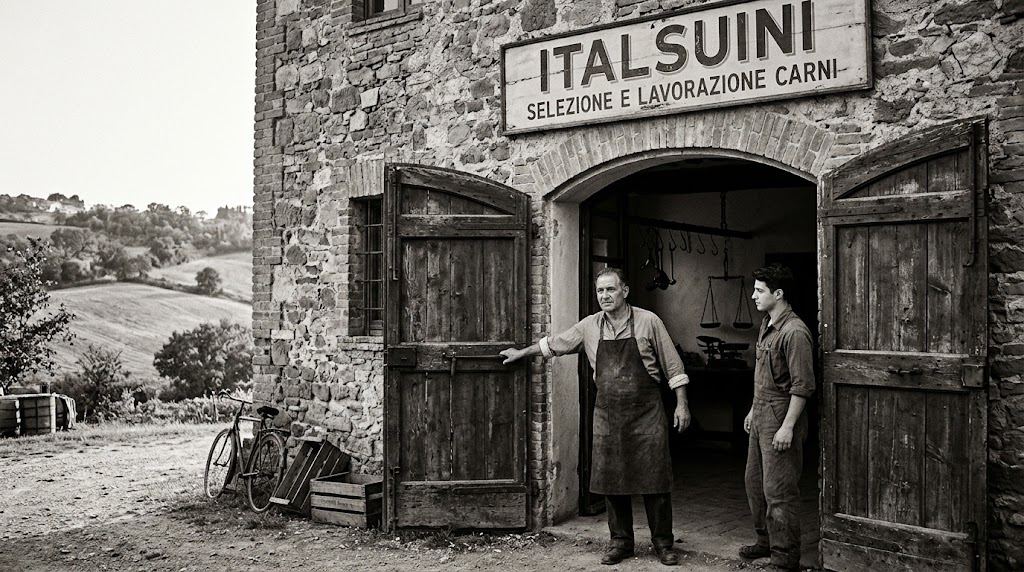
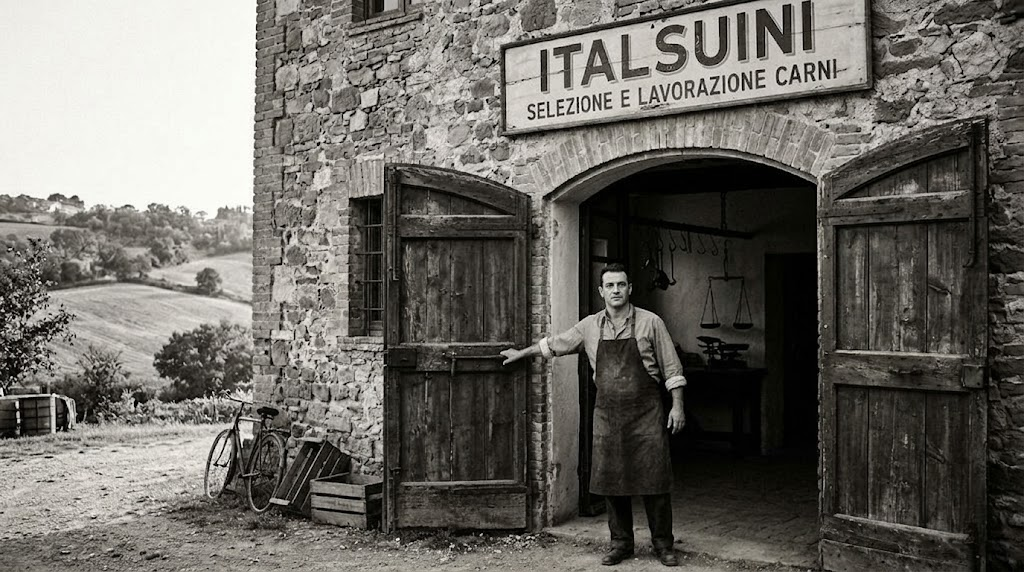
general fix

diff --git a/src/app_guangiale_cesare/shared/constants/date.ts b/src/app_guangiale_cesare/shared/constants/date.ts
@@ -4,30 +4,30 @@ import { TimelineEvent } from '../models/time-line-event';
 export const TIMELINE_EVENTS: TimelineEvent[] = [
   {
     year: '1999',
-    badge: 'Il Primo Passo',
-    title: 'Le Radici di Italsuini',
-    desc: 'Tutto nasce da un sogno e da un profondo rispetto per la nostra terra. Quando le porte di Italsuini si aprono per la prima volta, non stiamo solo fondando un\'azienda: stiamo facendo una promessa. Quella di selezionare le carni più nobili con la stessa cura, etica e dedizione di una volta.',
+    badge: 'L\'Eredità',
+    title: 'Le Radici e la Famiglia Tiburzi',
+    desc: 'Tutto nasce dall\'esperienza lavorativa maturata dalla famiglia Tiburzi sin dai primi del \'900 nel territorio marchigiano[cite: 5]. Quando Italsuini prende forma e trasferisce la sua crescente capacità produttiva nel mercato laziale[cite: 5], non stiamo solo fondando un\'azienda: stiamo tramandando un profondo rispetto per la nostra terra e per la selezione delle carni più nobili.',
     imageUrl: 'images/storia_1.jpg'
   },
   {
     year: '2003',
     badge: 'Arte Norcina',
-    title: 'Il Tempo e la Pazienza',
-    desc: 'L\'eccellenza richiede attesa. Iniziamo la produzione dei nostri primi stagionati, lasciando che il tempo, il sale e l\'aria fresca facciano il loro lavoro. Le antiche ricette del territorio prendono vita nelle nostre cantine, portando alla luce sapori autentici e indimenticabili.',
+    title: 'Evoluzione e Pazienza',
+    desc: 'Con l\'evoluzione del mercato, abbracciamo la necessità di trasformare le carni in eccellenze preparate e confezionate, operando in spazi all\'avanguardia[cite: 5]. Inizia la delicata fase della stagionatura, dove la nostra esperienza nel dosare la giusta quantità di spezie esalta il gusto autentico delle antiche ricette[cite: 5], portando alla luce sapori indimenticabili.',
     imageUrl: 'images/storia_2.jpg'
   },
   {
     year: '2024',
     badge: 'Il Capolavoro',
     title: 'La Nascita di Cesare',
-    desc: 'Dopo venticinque anni di esperienza, presentiamo il nostro capolavoro. Nasce "Cesare", un omaggio devoto a Roma e al re indiscusso della sua cucina: il guanciale. Non un semplice prodotto, ma il cuore pulsante e croccante dell\'alta ristorazione.',
+    desc: 'Dopo decenni di dedizione, presentiamo il nostro capolavoro. Nasce "Cesare", un omaggio devoto a Roma e al re indiscusso della sua cucina: il guanciale. Non un semplice prodotto, ma il cuore pulsante dell\'alta ristorazione, creato per soddisfare le esigenze dei palati più raffinati mantenendo inalterata la nostra storica qualità[cite: 5].',
     imageUrl: 'images/storia_3.jpg' // Immagine: Dettaglio lussuoso di salumi tagliati
   },
   {
     year: '2026',
-    badge: 'L\'Eredità',
+    badge: 'La Garanzia',
     title: 'L\'Eccellenza Senza Tempo',
-    desc: 'La nostra storia continua. Con la stessa passione di chi ha iniziato, vestiamo la nostra tradizione di una nuova eleganza digitale. "Cesare" è ormai un simbolo, pronto a portare il gusto autentico della vera norcineria verso nuovi e ambiziosi orizzonti.',
+    desc: 'La nostra storia continua. Con la stessa passione di chi ha iniziato più di un secolo fa, portiamo avanti la nostra missione: essere sinonimo di garanzia italiana nel tempo[cite: 5]. "Cesare" veste la nostra tradizione di una nuova eleganza, pronto a portare il gusto autentico della vera norcineria verso orizzonti sempre più ambiziosi.',
     imageUrl: 'images/storia_4.jpg' // Immagine: Alta ristorazione / Piatto elegante
   }
 ];
@@ -42,7 +42,7 @@ export const PRODUCTS_DATA: Record<string, Product> = {
     subtitle: 'Il Cuore della Tradizione Romana',
     tag: 'Prodotto Eroe',
     imageUrl:
-      'https://images.unsplash.com/photo-1608755728617-aefab37d2edd?auto=format&fit=crop&w=800&q=80',
+      'images/cards-image/guanciale.jpg',
     description:
       'Ottenuto da sole carni suine italiane selezionate della filiera Italsuini. Speziato con salagione manuale e pepatura tradizionale, stagionato lentamente per garantire la perfetta marezzatura croccante in cottura.',
     pairing:
@@ -74,7 +74,7 @@ export const PRODUCTS_DATA: Record<string, Product> = {
     subtitle: 'Salame Artigianale Speziato',
     tag: 'Salami',
     imageUrl:
-      'https://images.unsplash.com/photo-1544025162-d76694265947?auto=format&fit=crop&w=800&q=80',
+      'images/cards-image/salame_tiberio.jpg',
     description:
       'Equilibrio perfetto di sapori: la dolcezza della carne si unisce alla giusta sapidità e a un leggero sentore di spezie. Consistenza morbida e profumo intenso.',
     pairing: 'Pane casereccio caldo e calice di rosso corposo.',
@@ -102,7 +102,7 @@ export const PRODUCTS_DATA: Record<string, Product> = {
     subtitle: 'Salume Spalmabile tipo Ciauscolo',
     tag: 'Salami',
     imageUrl:
-      'https://images.unsplash.com/photo-1510693206972-df098062cb71?auto=format&fit=crop&w=800&q=80',
+      'images/cards-image/salame_mecenate.jpg',
     description:
       'Ispirato alla tradizione del ciauscolo, Mecenate si distingue per la sua consistenza cremosa e spalmabile su fette di pane caldo.',
     pairing: 'Crostini caldi, spumanti metodo classico o birre artigianali.',
@@ -129,7 +129,7 @@ export const PRODUCTS_DATA: Record<string, Product> = {
     subtitle: 'Salame Artigianale tipo Corallina',
     tag: 'Salami',
     imageUrl:
-      'https://images.unsplash.com/photo-1593504049359-74330189a345?auto=format&fit=crop&w=800&q=80',
+      'images/cards-image/salame_flaminia.jpg',
     description:
       'La tipica corallina della tradizione laziale. Macinatura fine con caratteristici cubetti di lardo magro e compatto dal gusto profumato.',
     pairing: 'Pizza di Pasqua salata, caciotta fresca e vino bianco Frascati.',
@@ -155,7 +155,7 @@ export const PRODUCTS_DATA: Record<string, Product> = {
     subtitle: 'Pancetta Arrotolata Elegante',
     tag: 'Pancetta',
     imageUrl:
-      'https://images.unsplash.com/photo-1528735602780-2552fd46c7af?auto=format&fit=crop&w=800&q=80',
+      'images/cards-image/pancetta_poppea.jpg',
     description:
       'Pancetta arrotolata dolce e morbida, dal sapore avvolgente e raffinato. Lenta stagionatura e speziatura delicata.',
     pairing: 'Fichi freschi accompagnati a grissini artigianali e bollicine.',
@@ -181,7 +181,7 @@ export const PRODUCTS_DATA: Record<string, Product> = {
     subtitle: 'Pancetta Tesa Stagionata',
     tag: 'Pancetta',
     imageUrl:
-      'https://images.unsplash.com/photo-1621996346565-e3d5d6281270?auto=format&fit=crop&w=800&q=80',
+      'images/cards-image/pancetta_minerva.jpg',
     description:
       'Equilibrio perfetto tra magro e grasso con marezzatura elegante. Sapore intenso con note speziate delicate.',
     pairing: 'Pane di grano duro, formaggi stagionati, utilizzi gourmet.',
@@ -207,7 +207,7 @@ export const PRODUCTS_DATA: Record<string, Product> = {
     subtitle: 'Salsiccia Stagionata Selezione',
     tag: 'Salsicce',
     imageUrl:
-      'https://images.unsplash.com/photo-1555939594-58d7cb561ad1?auto=format&fit=crop&w=800&q=80',
+      'images/cards-image/salsiccia_domina.jpg',
     description:
       'Salsiccia stagionata in condizioni ideali per un sapore intenso, compatto e speziato al punto giusto.',
     pairing: 'Pecorino stagionato, taralli, aperitivi di carattere.',
@@ -233,7 +233,7 @@ export const PRODUCTS_DATA: Record<string, Product> = {
     subtitle: 'Salsiccia tipo Siena',
     tag: 'Salsicce',
     imageUrl:
-      'https://images.unsplash.com/photo-1592417817098-8f3d6eb231fc?auto=format&fit=crop&w=800&q=80',
+      'images/cards-image/salsiccia_minutilla.jpg',
     description:
       'Lavorata in budello naturale, sapore aromatico e leggermente speziato che evoca le antiche norcinerie romane.',
     pairing: 'Vini rossi leggeri e fruttati, focacce morbide profumate all\'olio EVO.',
@@ -258,7 +258,7 @@ export const PRODUCTS_DATA: Record<string, Product> = {
     subtitle: 'Lonza Magra di Qualità Superiore',
     tag: 'Stagionati',
     imageUrl:
-      'https://images.unsplash.com/photo-1504674900247-0877df9cc836?auto=format&fit=crop&w=800&q=80',
+      'images/cards-image/stagionato_cleopatra.jpg',
     description:
       'Consistenza morbida e vellutata dal profumo avvolgente. Carne magra selezionata di altissima qualità della filiera Italsuini.',
     pairing: 'Rucola fresca, scaglie di parmigiano, olio EVO e limone.',
@@ -284,7 +284,7 @@ export const PRODUCTS_DATA: Record<string, Product> = {
     subtitle: 'Coppiette Romane Speziate',
     tag: 'Stagionati',
     imageUrl:
-      'https://images.unsplash.com/photo-1541544741938-0af808871cc0?auto=format&fit=crop&w=800&q=80',
+     'images/cards-image/stagionato_fiammette.jpg',
     description:
       "Strisce di carne suina magra e speziata con peperoncino e semi di finocchio. L'autentico snack da osteria romana.",
     pairing: 'Birra artigianale cruda o vino rosso sfuso di Frascati.',
@@ -309,7 +309,7 @@ export const PRODUCTS_DATA: Record<string, Product> = {
     subtitle: 'Lonzino Stagionato Aromatico',
     tag: 'Stagionati',
     imageUrl:
-      'https://images.unsplash.com/photo-1514944288352-fffac99f0bdf?auto=format&fit=crop&w=800&q=80',
+      'images/cards-image/stagionato_valerio.jpg',
     description:
       'Lenta e naturale stagionatura. Gusto morbido e profumato con un abbraccio di spezie delicate.',
     pairing: 'Vini bianchi strutturati, accompagnato da crostini di pane e burro salato.',

diff --git a/src/app_guangiale_cesare/pages/dashboard/dashboard.html b/src/app_guangiale_cesare/pages/dashboard/dashboard.html
@@ -9,7 +9,7 @@
         <div class="flex items-center gap-2">
           <div class="p-1 rounded flex items-center justify-center shadow">
             <img
-              src="https://irp.cdn-website.com/ba67c8ab/dms3rep/multi/opt/Logo-guanciale-Cesare-trasp-oro-1920w.png"
+              src="logo.webp"
               alt="Logo Italsuini"
               class="h-16 w-auto object-contain"
             />
@@ -32,6 +32,9 @@
         >
         <a href="#lux-catalog" class="hover:text-amber-400 transition"
           >Selezione Stagionati</a
+        >
+        <a href="#lux-produzione" class="hover:text-amber-400 transition"
+          >Processo produttivo</a
         >
         <a href="#lux-history" class="hover:text-amber-400 transition"
           >LA NOSTRA STORIA EROE</a
@@ -58,7 +61,7 @@
     <div class="max-w-4xl mx-auto text-center relative z-10 space-y-6 py-16">
       <div class="flex flex-col items-center justify-center space-y-4">
         <img
-          src="https://irp.cdn-website.com/ba67c8ab/dms3rep/multi/opt/Logo-guanciale-Cesare-trasp-oro-1920w.png"
+          src="logo.webp"
           alt="Guanciale Cesare"
           class="h-48 sm:h-[21rem] w-auto object-contain drop-shadow-[0_10px_20px_rgba(212,175,55,0.2)]"
         />
@@ -208,12 +211,140 @@
       class="aspect-[4/3] rounded-3xl bg-luxury-card luxury-glow-card overflow-hidden relative group"
     >
       <img
-        src="https://images.unsplash.com/photo-1608755728617-aefab37d2edd?auto=format&fit=crop&w=800&q=80"
+        src="images/cards-image/guanciale_principale.jpg"
         alt="Guanciale"
         class="w-full h-full object-cover opacity-60 group-hover:scale-105 transition-transform duration-700"
       />
     </div>
   </section>
+
+<!-- SEZIONE PROCESSO PRODUTTIVO -->
+<section id="lux-produzione" class="py-16 px-4 max-w-7xl mx-auto border-t border-amber-500/10 scroll-mt-24">
+  <div class="text-center space-y-6 mb-16">
+    <div>
+      <span class="text-xs uppercase tracking-widest text-amber-500 font-cinzel font-bold">
+        L'Eccellenza della Filiera
+      </span>
+      <h2 class="text-3xl sm:text-4xl font-cinzel font-bold text-white mt-3">
+        Il Processo Produttivo
+      </h2>
+    </div>
+
+    <!-- La Missione come fulcro centrale -->
+    <div class="max-w-3xl mx-auto p-6 border-y border-amber-500/20 bg-amber-500/5 relative overflow-hidden rounded-2xl">
+      <div class="absolute top-0 left-0 w-1 h-full bg-amber-500"></div>
+      <h4 class="font-cinzel text-amber-400 font-bold mb-3 uppercase tracking-wider text-sm">La Nostra Missione</h4>
+      <p class="text-base sm:text-base italic font-playfair tracking-wide text-gray-300">
+        "Soddisfare le esigenze della piccola, media e grande distribuzione, mantenendo inalterata la qualità che ci ha contraddistinto nel tempo, sinonimo di garanzia italiana."[cite: 5]
+      </p>
+    </div>
+  </div>
+
+  <!-- Griglia Fasi di Lavorazione 2x2 -->
+  <div class="grid grid-cols-1 md:grid-cols-2 gap-8">
+    
+    <!-- Macellazione -->
+    <div class="rounded-3xl bg-luxury-card luxury-glow-card border border-amber-500/10 hover:border-amber-500/30 transition-all group overflow-hidden shadow-2xl flex flex-col">
+      <div class="aspect-video relative overflow-hidden">
+        <img 
+          src="images/card-azienda/azienda_1.jpg" 
+          alt="Macellazione" 
+          class="w-full h-full object-cover opacity-70 group-hover:scale-110 group-hover:opacity-100 transition-all duration-700" 
+        />
+        <div class="absolute inset-0 bg-gradient-to-t from-[#0A0809] via-[#0A0809]/40 to-transparent"></div>
+        <div class="absolute bottom-4 left-6 flex items-center gap-4">
+          <div class="w-10 h-10 rounded-full bg-black/60 backdrop-blur-md flex items-center justify-center border border-amber-500/40 shadow-[0_0_15px_rgba(212,175,55,0.2)]">
+            <i class="fa-solid fa-cow text-amber-400 text-sm"></i>
+          </div>
+          <h3 class="font-cinzel text-xl text-white font-bold tracking-wider group-hover:text-amber-400 transition-colors">
+            Macellazione
+          </h3>
+        </div>
+      </div>
+      <div class="p-6 sm:p-8 flex-1 flex flex-col">
+        <p class="text-base text-gray-400 leading-relaxed">
+          Al fine di garantire inalterata la qualità delle carni, abbiamo scelto di collocare la nostra azienda adiacente al mattatoio comunale di Roma, evitando così di interrompere la catena del freddo. La macellazione delle nostre carni, viene effettuata in ambienti scrupolosamente controllati e sanificati.
+        </p>
+      </div>
+    </div>
+
+    <!-- Lavorazione -->
+    <div class="rounded-3xl bg-luxury-card luxury-glow-card border border-amber-500/10 hover:border-amber-500/30 transition-all group overflow-hidden shadow-2xl flex flex-col">
+      <div class="aspect-video relative overflow-hidden">
+        <img 
+          src="images/card-azienda/azienda_2.jpg" 
+          alt="Lavorazione" 
+          class="w-full h-full object-cover opacity-70 group-hover:scale-110 group-hover:opacity-100 transition-all duration-700" 
+        />
+        <div class="absolute inset-0 bg-gradient-to-t from-[#0A0809] via-[#0A0809]/40 to-transparent"></div>
+        <div class="absolute bottom-4 left-6 flex items-center gap-4">
+          <div class="w-10 h-10 rounded-full bg-black/60 backdrop-blur-md flex items-center justify-center border border-amber-500/40 shadow-[0_0_15px_rgba(212,175,55,0.2)]">
+            <i class="fa-solid fa-gears text-amber-400 text-sm"></i>
+          </div>
+          <h3 class="font-cinzel text-xl text-white font-bold tracking-wider group-hover:text-amber-400 transition-colors">
+            Lavorazione
+          </h3>
+        </div>
+      </div>
+      <div class="p-6 sm:p-8 flex-1 flex flex-col">
+        <p class="text-base text-gray-400 leading-relaxed">
+          Le lavorazioni vengono eseguite con il supporto delle più avanzate tecnologie, a garanzia della qualità e della tracciabilità dei prodotti. Il confezionamento, viene fornito in tre diverse tipologie: preincarto, sottovuoto e in atmosfera modificata.
+        </p>
+      </div>
+    </div>
+
+    <!-- Stagionati -->
+    <div class="rounded-3xl bg-luxury-card luxury-glow-card border border-amber-500/10 hover:border-amber-500/30 transition-all group overflow-hidden shadow-2xl flex flex-col">
+      <div class="aspect-video relative overflow-hidden">
+        <img 
+          src="images/card-azienda/azienda_3.jpg" 
+          alt="Stagionati" 
+          class="w-full h-full object-cover opacity-70 group-hover:scale-110 group-hover:opacity-100 transition-all duration-700" 
+        />
+        <div class="absolute inset-0 bg-gradient-to-t from-[#0A0809] via-[#0A0809]/40 to-transparent"></div>
+        <div class="absolute bottom-4 left-6 flex items-center gap-4">
+          <div class="w-10 h-10 rounded-full bg-black/60 backdrop-blur-md flex items-center justify-center border border-amber-500/40 shadow-[0_0_15px_rgba(212,175,55,0.2)]">
+            <i class="fa-solid fa-wind text-amber-400 text-sm"></i>
+          </div>
+          <h3 class="font-cinzel text-xl text-white font-bold tracking-wider group-hover:text-amber-400 transition-colors">
+            Stagionati
+          </h3>
+        </div>
+      </div>
+      <div class="p-6 sm:p-8 flex-1 flex flex-col">
+        <p class="text-base text-gray-400 leading-relaxed">
+          La nostra esperienza nella delicata fase della stagionatura nel saper dosare la giusta quantità di spezie, ne esalta il gusto e permette di apprezzare al meglio la loro qualità.
+        </p>
+      </div>
+    </div>
+
+    <!-- Cotti -->
+    <div class="rounded-3xl bg-luxury-card luxury-glow-card border border-amber-500/10 hover:border-amber-500/30 transition-all group overflow-hidden shadow-2xl flex flex-col">
+      <div class="aspect-video relative overflow-hidden">
+        <img 
+          src="images/card-azienda/azienda_5.jpg" 
+          alt="Cotti" 
+          class="w-full h-full object-cover opacity-70 group-hover:scale-110 group-hover:opacity-100 transition-all duration-700" 
+        />
+        <div class="absolute inset-0 bg-gradient-to-t from-[#0A0809] via-[#0A0809]/40 to-transparent"></div>
+        <div class="absolute bottom-4 left-6 flex items-center gap-4">
+          <div class="w-10 h-10 rounded-full bg-black/60 backdrop-blur-md flex items-center justify-center border border-amber-500/40 shadow-[0_0_15px_rgba(212,175,55,0.2)]">
+            <i class="fa-solid fa-fire text-amber-400 text-sm"></i>
+          </div>
+          <h3 class="font-cinzel text-xl text-white font-bold tracking-wider group-hover:text-amber-400 transition-colors">
+            Cotti
+          </h3>
+        </div>
+      </div>
+      <div class="p-6 sm:p-8 flex-1 flex flex-col">
+        <p class="text-base text-gray-400 leading-relaxed">
+          L'attenta selezione delle materie prime incontra le cotture lente e controllate, dando vita a prodotti dai sapori rotondi e inconfondibili, pronti per arricchire l'offerta gastronomica con l'autentica eccellenza italiana.
+        </p>
+      </div>
+    </div>
+
+  </div>
+</section>
 
   <!-- CATALOGO PRODOTTI CON GLOW -->
   <section
